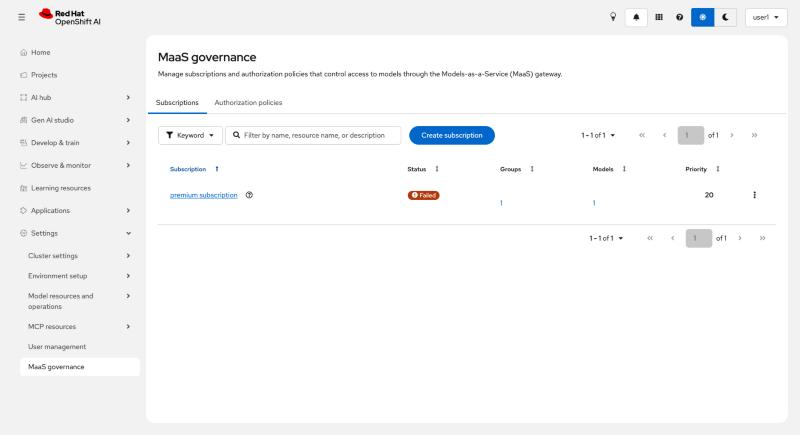
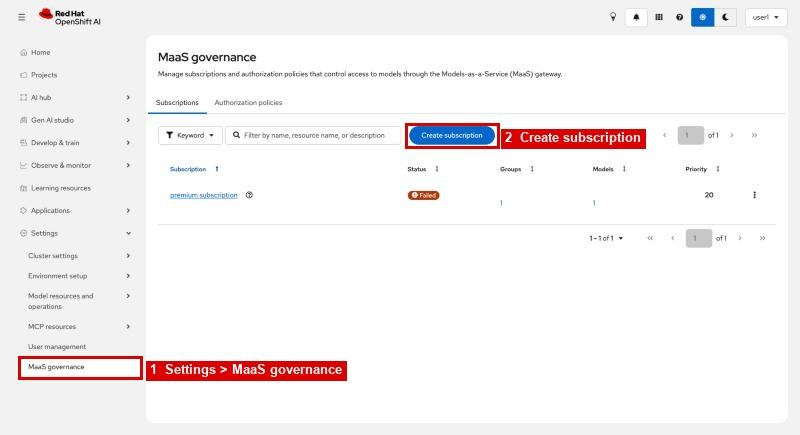
Move subscription into Part 5 and make P/D choice explicit
Attendee feedback: after publishing as MaaS, several looked for the MaaS
endpoint before creating a subscription, and several picked the
"Single Node P/D" accelerator option by mistake.

- Part 5 now runs publish (5.1), create subscription (5.2), what changed
  (5.3); Part 6 becomes API Keys and the Playground (6.1-6.4)
- Drop the subscription warning boxes the new order makes unnecessary
- Add a caution box and annotated screenshots for Single Node vs P/D,
  plus a troubleshooting entry for the crashing -prefill pod
- Highlight the subscription steps in red on the screenshots
- Update cross-references, structure table, journey diagram and README

Changed region(s): [[0.0, 0.8069, 0.4375, 0.8966], [0.5, 0.269, 0.8125, 0.3586]]

diff --git a/RHOAI-MODEL-DEPLOYMENT-WORKSHOP.md b/RHOAI-MODEL-DEPLOYMENT-WORKSHOP.md
@@ -24,10 +24,10 @@ your project ──deploy──▶ your model (1 GPU)
                               │
                               ├──▶ AI Playground   chat · MCP tools · RAG     (Part 4)
                               │
-                     edit: Publish as MaaS                                   (Part 5)
+                     Publish as MaaS + subscription                          (Part 5)
                               │
                               ▼
-                     MaaS gateway ◀── subscription + API key                (Part 6)
+                     MaaS gateway ◀── API key                                (Part 6)
                               │
                               └──▶ Open WebUI      chat · RAG                (Part 7)
 ```
@@ -40,8 +40,8 @@ your project ──deploy──▶ your model (1 GPU)
 | Part 2 | Create Your Project | Hands-on | ~5 min |
 | Part 3 | Deploy gemma-4-E4B-it | Hands-on | ~20 min |
 | Part 4 | Try the Model in the AI Playground (chat, MCP, RAG) | Hands-on | ~20 min |
-| Part 5 | Publish Your Model as MaaS | Hands-on | ~10 min |
-| Part 6 | Subscriptions and API Keys | Hands-on | ~15 min |
+| Part 5 | Publish Your Model as MaaS (edit the deployment, then create your subscription) | Hands-on | ~15 min |
+| Part 6 | API Keys and the Playground | Hands-on | ~10 min |
 | Part 7 | Connect Open WebUI to MaaS | Hands-on | ~25 min |
 | Part 8 | Observability | Optional demo | ~10 min |
 | Appendix A | Instructor Setup Checklist | Reference | -- |
@@ -184,8 +184,24 @@ The **Project** field already shows `userN`. Fill in the rest:
 | **Model deployment name** | `gemma-4-e4b-it` (all lowercase). You'll see this name again in Parts 5 to 7. |
 | **Deployment method** | **LLM inference service** (pre-selected). Leave it. *Inference service* can't be published as MaaS. |
 | **Hardware profile** | `gpu-profile` |
-| **Accelerator configuration** | **Manual selection** (pre-selected; *Automatic* is greyed out). Open the dropdown, type `Single Node` in its search box, and pick **vLLM NVIDIA CUDA GPU LLMInferenceServiceConfig Single Node**. Careful: not the one ending in *Single Node P/D (Prefill/Decode)*. |
+| **Accelerator configuration** | **Manual selection** (pre-selected; *Automatic* is greyed out). Pick **vLLM NVIDIA CUDA GPU LLMInferenceServiceConfig Single Node**. **Read the warning below first.** |
 | **Replica count** | `1` |
+
+> [!CAUTION]
+> **Most common mistake: pick `Single Node`, NOT `Single Node P/D`.**
+>
+> Open the **Accelerator configuration** dropdown and type `Single Node` in its search box. You get **two options with almost the same name**:
+>
+> | Option | |
+> |--------|---|
+> | vLLM NVIDIA CUDA GPU LLMInferenceServiceConfig Single Node **P/D (Prefill/Decode)** | ❌ **Wrong.** Don't pick it |
+> | vLLM NVIDIA CUDA GPU LLMInferenceServiceConfig **Single Node** | ✅ **Correct.** The name **ends** in `Single Node` |
+>
+> The wrong one is listed **first**, so read the **end** of the name before you click. If you pick P/D, the wizard creates a second `-prefill` pod that gets no GPU and crashes, and your model **never becomes Ready**. See [Troubleshooting](#model-never-ready-a--prefill-pod-keeps-crashing) if that happens.
+
+![Pick Single Node, not Single Node P/D](images/maas/05a-accelerator-single-node-vs-pd.jpg)
+
+After you pick it, the field shows the name ending in **Single Node**:
 
 ![gpu-profile and the Single Node accelerator configuration](images/maas/05-deploy-gpu-accelerator.jpg)
 
@@ -238,7 +254,7 @@ Check the summary:
 
 - **Model deployment name:** gemma-4-e4b-it
 - **Hardware profile:** gpu-profile
-- **Accelerator configuration:** vLLM NVIDIA CUDA GPU LLMInferenceServiceConfig Single Node
+- **Accelerator configuration:** vLLM NVIDIA CUDA GPU LLMInferenceServiceConfig Single Node (if it says **P/D (Prefill/Decode)**, click **Back** and fix it now)
 - **Replicas:** 1
 - **AI asset endpoint:** Yes, use case `chat`
 - **Token authentication:** No
@@ -397,7 +413,7 @@ Try a question the handbook can't answer, for example `What is Acme Robotics' pa
 
 ---
 
-# Part 5: Publish Your Model as MaaS (~10 min)
+# Part 5: Publish Your Model as MaaS (~15 min)
 
 So far your model is reachable only through your project's Playground and endpoints, with no access control. **Models-as-a-Service (MaaS)** turns a deployment into a governed service:
 
@@ -405,7 +421,18 @@ So far your model is reachable only through your project's Playground and endpoi
 - Access only with an **API key**
 - Each key belongs to a **subscription**, which decides **which models** it can use and **how many tokens per minute**
 
-You don't need to redeploy anything. You just edit the deployment.
+**How MaaS access works:**
+
+```
+API key (sk-oai-…)  ──belongs to──▶  subscription  ──lists──▶  models + token rate limit
+                                          │
+                                          └──owned by──▶ user groups
+```
+
+- A **subscription** lists models, a token limit for each model, and the groups allowed to use it
+- An **API key** is created for exactly **one subscription**. It can call only that subscription's models, within its limits
+
+Publishing takes two steps, one right after the other: turn on MaaS for your deployment (Step 5.1), then create a subscription that includes your model (Step 5.2). Your MaaS endpoint appears once both are done. You don't need to redeploy anything.
 
 ## Step 5.1: Edit the Deployment
 
@@ -420,48 +447,16 @@ The **Gateway** switches to `maas-default-gateway | openshift-ingress` automatic
 
 5. Click **"Next"**, check the review page (**MaaS endpoint: Yes**), then click **"Update deployment"**
 
-The model pods are **not restarted**. Only the route moves from the inference gateway to the MaaS gateway, so this takes seconds.
+The model pods are **not restarted**. Only the route moves from the inference gateway to the MaaS gateway, so this takes seconds. Go straight on to Step 5.2.
 
-## Step 5.2: What Changed?
+## Step 5.2: Create Your Basic Subscription
 
-Go back to **Gen AI studio > AI asset endpoints**. For now you still see **one row**, `gemma-4-e4b-it` with use case `chat`. A MaaS model only becomes usable once a subscription includes it, so its row appears after you create your subscription in Step 6.1. You'll then see **two rows**, both named `gemma-4-e4b-it`:
-
-| Row | Use Case | What It Is |
-|-----|----------|-----------|
-| `gemma-4-e4b-it` | `chat` | The original AI asset entry. It still points at the **old** URL, which now returns **404** because the route moved |
-| `gemma-4-e4b-it`, with `publishers/userN/models/gemma-4-e4b-it` underneath | `LLM` | The MaaS entry. This is the one to use from now on |
-
-![AI asset endpoints after Step 6.1](images/maas/23c-asset-endpoints-maas.jpg)
-
-Nothing was deleted. The dashboard simply lists the model once as a project AI asset and once as a MaaS model. The MaaS row has its own **Endpoints** dialog with the shared MaaS URL and a subscription picker.
-
-> The Playground you created in Part 4 still points at the old URL, so it stops answering. You'll reconnect it through MaaS in Step 6.4.
-
-If you call the MaaS URL now without a key, you get **401 Unauthorized**. You need a subscription and an API key. That's Part 6.
-
----
-
-# Part 6: Subscriptions and API Keys (~15 min)
-
-**How MaaS access works:**
-
-```
-API key (sk-oai-…)  ──belongs to──▶  subscription  ──lists──▶  models + token rate limit
-                                          │
-                                          └──owned by──▶ user groups
-```
-
-- A **subscription** lists models, a token limit for each model, and the groups allowed to use it
-- An **API key** is created for exactly **one subscription**. It can call only that subscription's models, within its limits
-
-In this workshop, your instructor has already created one shared **premium subscription** as a placeholder, to show that several tiers can exist. It is intentionally empty (no models), so it shows a **Failed** status and you can't create keys for it. You'll create your own **basic subscription userN**.
-
-## Step 6.1: Create Your Basic Subscription
+Your instructor has already created one shared **premium subscription** as a placeholder, to show that several tiers can exist. It is intentionally empty (no models), so it shows a **Failed** status and you can't create keys for it. You'll create your own **basic subscription userN**.
 
 1. Go to **Settings > MaaS governance** (the last item under **Settings** in the left menu)
 2. Open the **Subscriptions** tab and click **"Create subscription"**
 
-![MaaS governance](images/maas/20-maas-governance-empty.jpg)
+![MaaS governance: Settings > MaaS governance, then Create subscription](images/maas/20-maas-governance-empty.jpg)
 
 3. Fill in the form:
 
@@ -472,7 +467,7 @@ In this workshop, your instructor has already created one shared **premium subsc
    | **Priority** | `10` (the form starts at `0`; higher numbers take precedence when you belong to more than one subscription) |
    | **Groups** | `rhods-admins` |
 
-4. Under **Models**, click **"Add models"**. In the dialog, click **"Add model"** in the row for **your** model (project `userN`, model ID `gemma-4-e4b-it`), then click **"Add models"**
+4. Under **Models**, click **"Add models"**. In the dialog, click **"Add model"** in the row for **your** model (project `userN`, model ID `gemma-4-e4b-it`), then click **"Add models"**. The dialog lists only models published as MaaS: if yours is missing, go back to Step 5.1 and check that it saved
 
 ![Add your model to the subscription](images/maas/21-sub-add-models.jpg)
 
@@ -492,7 +487,32 @@ Your subscription appears in the list with status **Ready**. The instructor's `p
 
 > **Heads-up:** in this workshop all attendees are in the same group (`rhods-admins`), so you can see everyone's subscriptions in dropdowns. Always pick **your own** `basic subscription userN`.
 
-## Step 6.2: Look at the MaaS Endpoint
+## Step 5.3: What Changed?
+
+Go to **Gen AI studio > AI asset endpoints** (project `userN`). Within about a minute of creating your subscription, it shows **two rows**, both named `gemma-4-e4b-it`:
+
+| Row | Use Case | What It Is |
+|-----|----------|-----------|
+| `gemma-4-e4b-it` | `chat` | The original AI asset entry. It still points at the **old** URL, which now returns **404** because the route moved |
+| `gemma-4-e4b-it`, with `publishers/userN/models/gemma-4-e4b-it` underneath | `LLM` | The MaaS entry. This is the one to use from now on |
+
+![AI asset endpoints with the MaaS row](images/maas/23c-asset-endpoints-maas.jpg)
+
+No **LLM** row after 2 minutes? Check that your subscription says **Ready** and lists **your** model (project `userN`), then reload the page.
+
+Nothing was deleted. The dashboard simply lists the model once as a project AI asset and once as a MaaS model. The MaaS row has its own **Endpoints** dialog with the shared MaaS URL and a subscription picker.
+
+> The Playground you created in Part 4 still points at the old URL, so it stops answering. You'll reconnect it through MaaS in Step 6.3.
+
+If you call the MaaS URL now without a key, you get **401 Unauthorized**. You need an API key. That's Part 6.
+
+---
+
+# Part 6: API Keys and the Playground (~10 min)
+
+Your model is published and in your subscription. Now look at its MaaS endpoint, create an API key for it, and use it from the Playground.
+
+## Step 6.1: Look at the MaaS Endpoint
 
 1. Go to **Gen AI studio > AI asset endpoints** (project `userN`)
 2. In the row with use case **LLM** (`publishers/userN/models/gemma-4-e4b-it` underneath the name), click **View** in the **Endpoints** column
@@ -509,7 +529,7 @@ You see:
 
 Click **"Close"**. For Open WebUI, you'll create a proper key.
 
-## Step 6.3: Create an API Key
+## Step 6.2: Create an API Key
 
 1. Go to **Gen AI studio > API keys**
 2. Click **"Create API key"**
@@ -533,7 +553,7 @@ Click **"Close"**. For Open WebUI, you'll create a proper key.
 
 > Lost the key? You can't display it again. Delete it on the **API keys** page and create a new one.
 
-## Step 6.4: Use MaaS from the Playground
+## Step 6.3: Use MaaS from the Playground
 
 Reconnect the Playground through MaaS, the same way other applications will reach the model:
 
@@ -555,7 +575,7 @@ Reconnect the Playground through MaaS, the same way other applications will reac
 
 The Playground now calls your model through the MaaS gateway, with your subscription and its token limit.
 
-## Step 6.5 (Optional): Call MaaS from the Command Line
+## Step 6.4 (Optional): Call MaaS from the Command Line
 
 Any OpenAI-compatible client can now use your model. In the Web Terminal (see Step 7.1), try:
 
@@ -664,7 +684,7 @@ Open the URL in a new browser tab. Authentication is disabled for the workshop, 
 
 ## Step 7.6: Add the MaaS Connection with Your API Key
 
-First, get the MaaS base URL for Open WebUI. It's the MaaS endpoint from Step 6.2 plus `/v1`:
+First, get the MaaS base URL for Open WebUI. It's the MaaS endpoint from Step 6.1 plus `/v1`:
 
 ```bash
 echo "https://maas.$(oc get route open-webui -n $NAMESPACE -o jsonpath='{.spec.host}' | cut -d. -f2-)/v1"
@@ -682,7 +702,7 @@ Now, in Open WebUI:
    | Field | Value |
    |-------|-------|
    | **URL** | `https://maas.apps.<cluster-domain>/v1` |
-   | **Auth** | `Bearer`, then paste your **`sk-oai-` API key** from Step 6.3 into the field next to it |
+   | **Auth** | `Bearer`, then paste your **`sk-oai-` API key** from Step 6.2 into the field next to it |
    | **Model IDs** | leave empty (Open WebUI lists every model your key can use) |
 
 ![Add Connection](images/maas/30-owui-add-connection.jpg)
@@ -801,13 +821,42 @@ You've completed the hands-on part of the workshop.
    - **CUDA out of memory:** edit the deployment and change `--max-model-len=16384` to `--max-model-len=8192`
    - **Wrong hardware profile:** make sure you selected `gpu-profile`
 
+## Model never Ready: a `-prefill` pod keeps crashing
+
+**Cause:** in Step 3.4 you picked the accelerator configuration ending in **Single Node P/D (Prefill/Decode)** instead of the one ending in **Single Node**. You can recognise it from the pods:
+
+```bash
+oc get pods -n userN
+```
+
+A pod named `gemma-4-e4b-it-kserve-prefill-…` is in **CrashLoopBackOff**, and its log ends with `RuntimeError: Failed to infer device type`. The prefill pod gets no GPU, so it can't start.
+
+**Fix:** the quickest reliable fix is to delete the deployment and deploy again:
+
+1. **Projects > userN > Deployments**, kebab menu (⋮) on `gemma-4-e4b-it` > **Delete**, then confirm
+2. Repeat Part 3. In Step 3.4 pick the option whose name **ends** in **Single Node** (see the screenshot there), and check it again on the review page
+
+Stuck? Ask your instructor, who can also fix it in place.
+
 ## "No Gateways found" in the deploy wizard
 
 The inference gateway for non-MaaS deployments is missing. Ask your instructor (see Appendix A, step 3).
 
+## No MaaS (LLM) row, or no MaaS model to add to the Playground
+
+**Cause:** you published the model as MaaS (Step 5.1) but haven't created your subscription yet, or it doesn't include your model. MaaS lists a model only once a subscription includes it.
+
+**Fix:** do **[Step 5.2](#step-52-create-your-basic-subscription)**. Then check:
+
+- **Settings > MaaS governance > Subscriptions** shows `basic subscription userN` with status **Ready**
+- Its **Models** column shows 1. Click the subscription and check that the model is **yours** (project `userN`), not another attendee's
+- In the deployment's review page (kebab menu ⋮ > **Edit**, click **Next** to the end), **MaaS endpoint** says **Yes**
+
+Then reload **Gen AI studio > AI asset endpoints**. The **LLM** row shows up within about a minute.
+
 ## Playground: "Server error" or no answer after Part 5
 
-The original Playground entry still points at the old URL, which returns 404 after publishing as MaaS. Follow **Step 6.4** to add the MaaS row to the Playground.
+The original Playground entry still points at the old URL, which returns 404 after publishing as MaaS. Finish Part 5 (publish **and** subscription), then follow **Step 6.3** to add the MaaS row to the Playground.
 
 ## Playground: RAG ignores the document
 
@@ -1064,7 +1113,7 @@ Then clean up the test user, in this order:
 ## Known limitations (RHOAI 3.5.3)
 
 - **Token authentication and the Playground:** a deployment with **Require token authentication** can't be used from the Playground. That's why Part 3 leaves it off and Parts 5 and 6 secure the model with MaaS instead
-- **Two AI asset rows after publishing as MaaS:** the original row keeps pointing at the old URL (404). Attendees re-add the MaaS row to the Playground (Step 6.4)
+- **Two AI asset rows after publishing as MaaS:** the original row keeps pointing at the old URL (404). Attendees re-add the MaaS row to the Playground (Step 6.3)
 - **Empty subscriptions** (like the premium placeholder) show as **Failed**
 
 ## Workshop Credentials Template

diff --git a/README.md b/README.md
@@ -31,8 +31,8 @@ See [RHOAI-MODEL-DEPLOYMENT-WORKSHOP.md](RHOAI-MODEL-DEPLOYMENT-WORKSHOP.md) for
 1. **Access** OpenShift AI and **create** your project `userN`
 2. **Deploy** gemma-4-E4B-it from your project's Deployments tab (LLM inference service, single node, `gpu-profile`, AI asset endpoint)
 3. **Playground:** chat, MCP tool calling with the OpenShift MCP Server, and RAG
-4. **Publish as MaaS:** edit the deployment and turn on MaaS
-5. **Subscriptions and API keys:** create `basic subscription userN` (10,000 tokens per minute) and an `sk-oai-` API key
+4. **Publish as MaaS:** edit the deployment to turn on MaaS, then create `basic subscription userN` (10,000 tokens per minute) for your model
+5. **API keys and the Playground:** create an `sk-oai-` API key and reconnect the Playground through MaaS
 6. **Open WebUI:** connect to the MaaS endpoint with your API key, chat and RAG
 7. **Observability** (optional instructor demo)
 
